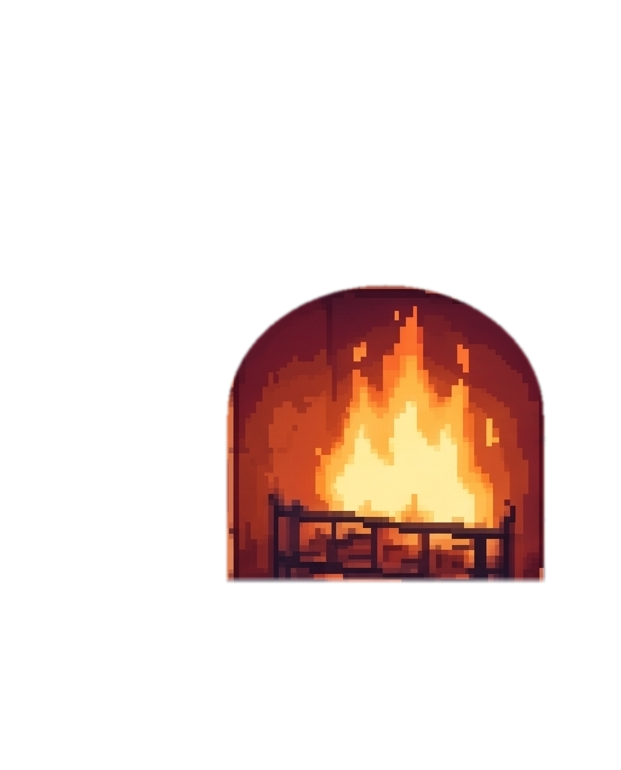
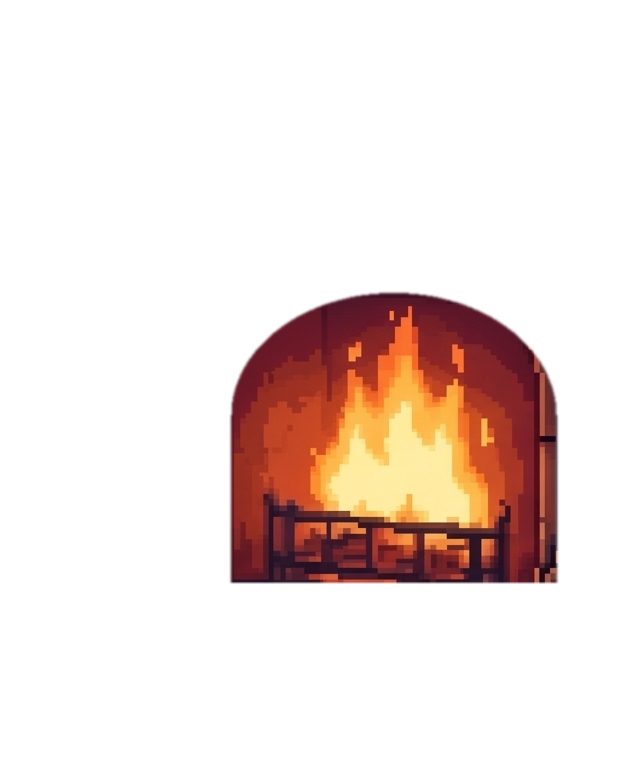
fix(calcifer): eliminate right wall seam, top arch notch, and grate jitter across all 24 animation frames

diff --git a/js/calcifer.js b/js/calcifer.js
@@ -13,14 +13,14 @@
 const Calcifer = (() => {
   // 8 frames ngọn lửa bập bùng tự nhiên từ Flame_1_8.png
   const IDLE_FRAMES = [
-    'assets/img/calcifer/flame_idle_1.webp?v=20261019b',
-    'assets/img/calcifer/flame_idle_2.webp?v=20261019b',
-    'assets/img/calcifer/flame_idle_3.webp?v=20261019b',
-    'assets/img/calcifer/flame_idle_4.webp?v=20261019b',
-    'assets/img/calcifer/flame_idle_5.webp?v=20261019b',
-    'assets/img/calcifer/flame_idle_6.webp?v=20261019b',
-    'assets/img/calcifer/flame_idle_7.webp?v=20261019b',
-    'assets/img/calcifer/flame_idle_8.webp?v=20261019b'
+    'assets/img/calcifer/flame_idle_1.webp?v=20261019c',
+    'assets/img/calcifer/flame_idle_2.webp?v=20261019c',
+    'assets/img/calcifer/flame_idle_3.webp?v=20261019c',
+    'assets/img/calcifer/flame_idle_4.webp?v=20261019c',
+    'assets/img/calcifer/flame_idle_5.webp?v=20261019c',
+    'assets/img/calcifer/flame_idle_6.webp?v=20261019c',
+    'assets/img/calcifer/flame_idle_7.webp?v=20261019c',
+    'assets/img/calcifer/flame_idle_8.webp?v=20261019c'
   ];
 
   // 9 phân đoạn hội thoại với biểu cảm và cử chỉ tương ứng
@@ -28,92 +28,92 @@ const Calcifer = (() => {
     {
       title: 'Xin chào bạn!',
       text: 'Chào bạn,\nMình là **Carte** — người giữ lửa và canh gác cho tòa lâu đài cùng với chú chó siêu to tên **Bond**.\n\nNhờ có mình mà lâu đài mới chuyển động và đi bất kì nơi nào mà cô chủ muốn.',
-      mainFrame: 'assets/img/calcifer/calcifer_talk_3.webp?v=20261019b', // giơ tay chào mừng
+      mainFrame: 'assets/img/calcifer/calcifer_talk_3.webp?v=20261019c', // giơ tay chào mừng
       talkFrames: [
-        'assets/img/calcifer/calcifer_talk_3.webp?v=20261019b',
-        'assets/img/calcifer/calcifer_talk_6.webp?v=20261019b'
+        'assets/img/calcifer/calcifer_talk_3.webp?v=20261019c',
+        'assets/img/calcifer/calcifer_talk_6.webp?v=20261019c'
       ],
-      breatheFrame: 'assets/img/calcifer/calcifer_talk_2.webp?v=20261019b'
+      breatheFrame: 'assets/img/calcifer/calcifer_talk_2.webp?v=20261019c'
     },
     {
       title: 'Cô chủ của Carte',
       text: 'Cô chủ của mình là một người thích khám phá, tò mò và cũng mơ mộng nữa.',
-      mainFrame: 'assets/img/calcifer/calcifer_smile_1.webp?v=20261019b', // cười dịu dàng
+      mainFrame: 'assets/img/calcifer/calcifer_smile_1.webp?v=20261019c', // cười dịu dàng
       talkFrames: [
-        'assets/img/calcifer/calcifer_smile_1.webp?v=20261019b',
-        'assets/img/calcifer/calcifer_talk_4.webp?v=20261019b'
+        'assets/img/calcifer/calcifer_smile_1.webp?v=20261019c',
+        'assets/img/calcifer/calcifer_talk_4.webp?v=20261019c'
       ],
-      breatheFrame: 'assets/img/calcifer/calcifer_smile_5.webp?v=20261019b'
+      breatheFrame: 'assets/img/calcifer/calcifer_smile_5.webp?v=20261019c'
     },
     {
       title: 'Những cái tên gắn liền từng chặng đường',
       text: 'Mình có được nghe cô chủ kể trước kia cô có khá nhiều tên, mỗi cái tên gắn liền với một giai đoạn...\n\nHiện tại cô chủ mình chọn **Vivi** làm tên tiếng Việt cũng như bút danh cho việc viết, còn **Vivian** là tên tiếng Anh.',
-      mainFrame: 'assets/img/calcifer/calcifer_talk_6.webp?v=20261019b', // mở miệng kể chuyện
+      mainFrame: 'assets/img/calcifer/calcifer_talk_6.webp?v=20261019c', // mở miệng kể chuyện
       talkFrames: [
-        'assets/img/calcifer/calcifer_talk_6.webp?v=20261019b',
-        'assets/img/calcifer/calcifer_talk_7.webp?v=20261019b'
+        'assets/img/calcifer/calcifer_talk_6.webp?v=20261019c',
+        'assets/img/calcifer/calcifer_talk_7.webp?v=20261019c'
       ],
-      breatheFrame: 'assets/img/calcifer/calcifer_talk_5.webp?v=20261019b'
+      breatheFrame: 'assets/img/calcifer/calcifer_talk_5.webp?v=20261019c'
     },
     {
       title: 'Đưa cô gần hơn tới các vì sao',
       text: 'Mình hay gọi cô là **Vivi** luôn cho gọn.\n\nVivi rất thích các chòm sao nên mình đã luôn phải cháy rực rỡ để đưa cô gần hơn tới các vì sao ✨ — một góc nhỏ ấm áp nơi cô có thể quan sát, nhìn ngắm, chiêm nghiệm về những điều cô đọc được, cô đi qua hay những sáng tác của cô.',
-      mainFrame: 'assets/img/calcifer/calcifer_smile_6.webp?v=20261019b', // giơ tay nhiệt huyết
+      mainFrame: 'assets/img/calcifer/calcifer_smile_6.webp?v=20261019c', // giơ tay nhiệt huyết
       talkFrames: [
-        'assets/img/calcifer/calcifer_smile_6.webp?v=20261019b',
-        'assets/img/calcifer/calcifer_talk_3.webp?v=20261019b'
+        'assets/img/calcifer/calcifer_smile_6.webp?v=20261019c',
+        'assets/img/calcifer/calcifer_talk_3.webp?v=20261019c'
       ],
-      breatheFrame: 'assets/img/calcifer/calcifer_smile_7.webp?v=20261019b'
+      breatheFrame: 'assets/img/calcifer/calcifer_smile_7.webp?v=20261019c'
     },
     {
       title: 'Những khoảng ở giữa...',
       text: 'Vivi vừa hiền lành cũng vừa ghê gớm, vừa sâu sắc vừa vô tri, vừa chăm chỉ cũng vừa lười biếng, vừa thích đi nhưng cũng lười đi... 😊\n\nCô là sự kết hợp của nhiều khoảng ở giữa…',
-      mainFrame: 'assets/img/calcifer/calcifer_smile_2.webp?v=20261019b', // cười tít mắt `> <`
+      mainFrame: 'assets/img/calcifer/calcifer_smile_2.webp?v=20261019c', // cười tít mắt `> <`
       talkFrames: [
-        'assets/img/calcifer/calcifer_smile_2.webp?v=20261019b',
-        'assets/img/calcifer/calcifer_smile_5.webp?v=20261019b'
+        'assets/img/calcifer/calcifer_smile_2.webp?v=20261019c',
+        'assets/img/calcifer/calcifer_smile_5.webp?v=20261019c'
       ],
-      breatheFrame: 'assets/img/calcifer/calcifer_smile_4.webp?v=20261019b'
+      breatheFrame: 'assets/img/calcifer/calcifer_smile_4.webp?v=20261019c'
     },
     {
       title: 'Tình yêu dành cho nghệ thuật',
       text: 'Nhưng có lẽ điều mà cô luôn thích đó là **nghệ thuật**.\n\nCô thích khám phá về thế giới, thích ghi lại những chiêm nghiệm về cuộc đời.',
-      mainFrame: 'assets/img/calcifer/calcifer_smile_5.webp?v=20261019b', // nụ cười điềm đạm
+      mainFrame: 'assets/img/calcifer/calcifer_smile_5.webp?v=20261019c', // nụ cười điềm đạm
       talkFrames: [
-        'assets/img/calcifer/calcifer_smile_5.webp?v=20261019b',
-        'assets/img/calcifer/calcifer_talk_4.webp?v=20261019b'
+        'assets/img/calcifer/calcifer_smile_5.webp?v=20261019c',
+        'assets/img/calcifer/calcifer_talk_4.webp?v=20261019c'
       ],
-      breatheFrame: 'assets/img/calcifer/calcifer_smile_1.webp?v=20261019b'
+      breatheFrame: 'assets/img/calcifer/calcifer_smile_1.webp?v=20261019c'
     },
     {
       title: 'Phương châm viết của Vivi',
       text: 'Vivi hay nói với mình là cô:\n\n🔥 **« VIẾT ĐỂ KHÔNG QUÊN »** 🔥',
-      mainFrame: 'assets/img/calcifer/calcifer_talk_8.webp?v=20261019b', // cười lớn vui vẻ
+      mainFrame: 'assets/img/calcifer/calcifer_talk_8.webp?v=20261019c', // cười lớn vui vẻ
       talkFrames: [
-        'assets/img/calcifer/calcifer_talk_8.webp?v=20261019b',
-        'assets/img/calcifer/calcifer_smile_8.webp?v=20261019b'
+        'assets/img/calcifer/calcifer_talk_8.webp?v=20261019c',
+        'assets/img/calcifer/calcifer_smile_8.webp?v=20261019c'
       ],
-      breatheFrame: 'assets/img/calcifer/calcifer_talk_3.webp?v=20261019b'
+      breatheFrame: 'assets/img/calcifer/calcifer_talk_3.webp?v=20261019c'
     },
     {
       title: 'Những dấu chân con chữ',
       text: 'Vậy nên…\n\nNhiều khi các bài viết hay các sáng tác có thể như là một dấu chân cô đã đi và muốn lưu dấu thông qua vài con chữ lộn xộn.',
-      mainFrame: 'assets/img/calcifer/calcifer_smile_7.webp?v=20261019b', // nụ cười rạng rỡ
+      mainFrame: 'assets/img/calcifer/calcifer_smile_7.webp?v=20261019c', // nụ cười rạng rỡ
       talkFrames: [
-        'assets/img/calcifer/calcifer_smile_7.webp?v=20261019b',
-        'assets/img/calcifer/calcifer_talk_5.webp?v=20261019b'
+        'assets/img/calcifer/calcifer_smile_7.webp?v=20261019c',
+        'assets/img/calcifer/calcifer_talk_5.webp?v=20261019c'
       ],
-      breatheFrame: 'assets/img/calcifer/calcifer_smile_1.webp?v=20261019b'
+      breatheFrame: 'assets/img/calcifer/calcifer_smile_1.webp?v=20261019c'
     },
     {
       title: 'Chinh phục những chân trời mới',
       text: 'Chẳng xô bồ hay cũng chẳng cần trau chuốt để ngóng chờ một chàng hoàng tử của đời.\n\nCác con chữ chỉ đơn giản vẫn ở đó và lớn dần từng ngày để tự chinh phục những điều thú vị tiếp theo. ✨',
-      mainFrame: 'assets/img/calcifer/calcifer_smile_3.webp?v=20261019b', // giơ 2 tay hạnh phúc
+      mainFrame: 'assets/img/calcifer/calcifer_smile_3.webp?v=20261019c', // giơ 2 tay hạnh phúc
       talkFrames: [
-        'assets/img/calcifer/calcifer_smile_3.webp?v=20261019b',
-        'assets/img/calcifer/calcifer_talk_3.webp?v=20261019b'
+        'assets/img/calcifer/calcifer_smile_3.webp?v=20261019c',
+        'assets/img/calcifer/calcifer_talk_3.webp?v=20261019c'
       ],
-      breatheFrame: 'assets/img/calcifer/calcifer_smile_6.webp?v=20261019b'
+      breatheFrame: 'assets/img/calcifer/calcifer_smile_6.webp?v=20261019c'
     }
   ];
 
@@ -523,22 +523,22 @@ const Calcifer = (() => {
   function preloadImages() {
     const all = [
       ...IDLE_FRAMES,
-      'assets/img/calcifer/calcifer_talk_1.webp?v=20261019b',
-      'assets/img/calcifer/calcifer_talk_2.webp?v=20261019b',
-      'assets/img/calcifer/calcifer_talk_3.webp?v=20261019b',
-      'assets/img/calcifer/calcifer_talk_4.webp?v=20261019b',
-      'assets/img/calcifer/calcifer_talk_5.webp?v=20261019b',
-      'assets/img/calcifer/calcifer_talk_6.webp?v=20261019b',
-      'assets/img/calcifer/calcifer_talk_7.webp?v=20261019b',
-      'assets/img/calcifer/calcifer_talk_8.webp?v=20261019b',
-      'assets/img/calcifer/calcifer_smile_1.webp?v=20261019b',
-      'assets/img/calcifer/calcifer_smile_2.webp?v=20261019b',
-      'assets/img/calcifer/calcifer_smile_3.webp?v=20261019b',
-      'assets/img/calcifer/calcifer_smile_4.webp?v=20261019b',
-      'assets/img/calcifer/calcifer_smile_5.webp?v=20261019b',
-      'assets/img/calcifer/calcifer_smile_6.webp?v=20261019b',
-      'assets/img/calcifer/calcifer_smile_7.webp?v=20261019b',
-      'assets/img/calcifer/calcifer_smile_8.webp?v=20261019b'
+      'assets/img/calcifer/calcifer_talk_1.webp?v=20261019c',
+      'assets/img/calcifer/calcifer_talk_2.webp?v=20261019c',
+      'assets/img/calcifer/calcifer_talk_3.webp?v=20261019c',
+      'assets/img/calcifer/calcifer_talk_4.webp?v=20261019c',
+      'assets/img/calcifer/calcifer_talk_5.webp?v=20261019c',
+      'assets/img/calcifer/calcifer_talk_6.webp?v=20261019c',
+      'assets/img/calcifer/calcifer_talk_7.webp?v=20261019c',
+      'assets/img/calcifer/calcifer_talk_8.webp?v=20261019c',
+      'assets/img/calcifer/calcifer_smile_1.webp?v=20261019c',
+      'assets/img/calcifer/calcifer_smile_2.webp?v=20261019c',
+      'assets/img/calcifer/calcifer_smile_3.webp?v=20261019c',
+      'assets/img/calcifer/calcifer_smile_4.webp?v=20261019c',
+      'assets/img/calcifer/calcifer_smile_5.webp?v=20261019c',
+      'assets/img/calcifer/calcifer_smile_6.webp?v=20261019c',
+      'assets/img/calcifer/calcifer_smile_7.webp?v=20261019c',
+      'assets/img/calcifer/calcifer_smile_8.webp?v=20261019c'
     ];
     all.forEach(src => {
       const img = new Image();
@@ -761,20 +761,20 @@ const Calcifer = (() => {
     // Chuỗi thức tỉnh sống động:
     // 1. Nhắm mắt ngủ
     if (flameEl) {
-      flameEl.src = 'assets/img/calcifer/calcifer_talk_1.webp?v=20261019b';
+      flameEl.src = 'assets/img/calcifer/calcifer_talk_1.webp?v=20261019c';
     }
 
     // 2. Mở to mắt giật mình 'O'
     setTimeout(() => {
       if (!isAwake) return;
-      if (flameEl) flameEl.src = 'assets/img/calcifer/calcifer_talk_2.webp?v=20261019b';
+      if (flameEl) flameEl.src = 'assets/img/calcifer/calcifer_talk_2.webp?v=20261019c';
       CalciferEmbers.burst(8);
     }, 200);
 
     // 3. Giơ 2 tay lên reo chào mừng
     setTimeout(() => {
       if (!isAwake) return;
-      if (flameEl) flameEl.src = 'assets/img/calcifer/calcifer_talk_3.webp?v=20261019b';
+      if (flameEl) flameEl.src = 'assets/img/calcifer/calcifer_talk_3.webp?v=20261019c';
       CalciferEmbers.burst(14);
     }, 450);
 
@@ -831,11 +831,11 @@ const Calcifer = (() => {
 
     // Mỉm cười chào rồi nhắm mắt quay lại ngọn lửa bình thường
     if (flameEl) {
-      flameEl.src = 'assets/img/calcifer/calcifer_talk_4.webp?v=20261019b';
+      flameEl.src = 'assets/img/calcifer/calcifer_talk_4.webp?v=20261019c';
     }
 
     setTimeout(() => {
-      if (flameEl) flameEl.src = 'assets/img/calcifer/calcifer_talk_1.webp?v=20261019b';
+      if (flameEl) flameEl.src = 'assets/img/calcifer/calcifer_talk_1.webp?v=20261019c';
     }, 400);
 
     setTimeout(() => {

diff --git a/index.html b/index.html
@@ -98,8 +98,8 @@
   <!-- ============ INTRO (căn phòng) ============ -->
   <section id="intro" class="scene" aria-label="Căn phòng bên khung cửa sổ">
     <div class="stage" id="introStage">
-      <img class="bg bg-close" src="assets/img/bg_close.webp?v=20261018k" alt="Căn phòng với khung cửa sổ vòm nhìn ra bầu trời đêm">
-      <img class="bg bg-open"  src="assets/img/bg_open.webp?v=20261018k" alt="">
+      <img class="bg bg-close" src="assets/img/bg_close.webp?v=20261019c" alt="Căn phòng với khung cửa sổ vòm nhìn ra bầu trời đêm">
+      <img class="bg bg-open"  src="assets/img/bg_open.webp?v=20261019c" alt="">
       <div class="window-sky" id="windowSky"></div>
       <div class="fire-glow"></div>
       <div class="candle-glow"></div>
@@ -109,7 +109,7 @@
       <!-- Carte (Calcifer) trong lò sưởi -->
       <div class="calcifer-container" id="calciferContainer" role="button" tabindex="0" title="Chạm vào Carte để trò chuyện" aria-label="Carte - Người giữ lửa của lâu đài">
         <canvas class="calcifer-embers" id="calciferEmbers"></canvas>
-        <img class="calcifer-flame" id="calciferFlame" src="assets/img/calcifer/flame_idle_1.webp?v=20261019b" alt="Carte người giữ lửa">
+        <img class="calcifer-flame" id="calciferFlame" src="assets/img/calcifer/flame_idle_1.webp?v=20261019c" alt="Carte người giữ lửa">
         <div class="calcifer-hint-pill" id="calciferHint">
           <span class="pill-fire">🔥</span>
           <span class="pill-text">Carte</span>
@@ -382,7 +382,7 @@
 <script src="js/shooting.js?v=20261018m"></script>
 <script src="js/galaxy.js?v=20261018m"></script>
 <script src="js/intro.js?v=20261018n"></script>
-<script src="js/calcifer.js?v=20261019b"></script>
+<script src="js/calcifer.js?v=20261019c"></script>
 <script src="js/main.js?v=20261018n"></script>
 <script src="js/dog.js?v=20261018m"></script>
 </body>

diff --git a/scripts/generate_perfect_24_frames.py b/scripts/generate_perfect_24_frames.py
@@ -6,42 +6,48 @@ def make_cavity_mask(width=621, height=770):
     mask = np.zeros((height, width), dtype=np.float32)
     Y, X = np.ogrid[:height, :width]
     
-    # Fireplace cavity opening geometry:
-    # Inner stone arch ring:
-    # Center X: 385.0, Center Y: 415.0
-    # Horizontal radius: rx = 158.0 (cavity opening spans X: 227..543)
-    # Vertical radius: ry = 130.0 (arch apex at Y = 285)
-    # Lower cavity body: spans X: 227..543 down to Y = 582
-    # Bottom floor cutoff: Y <= 582 (hearth floor stones start at Y = 585)
-    cx = 385.0
+    # Exact fireplace cavity opening geometry:
+    # Left groove: X = 231.0
+    # Right groove: X = 556.0
+    # Center X: (231 + 556) / 2 = 393.5
+    # Radius X: (556 - 231) / 2 = 162.5
+    # Center Y: 415.0
+    # Radius Y: 122.5 (apex at cy - ry = 292.5, strictly below stone arch rim)
+    cx = 393.5
     cy = 415.0
-    rx = 158.0
-    ry = 130.0
+    rx = 162.5
+    ry = 122.5
     
     top_ellipse = ((X - cx) / rx)**2 + ((Y - cy) / ry)**2 <= 1.0
     in_arch = top_ellipse & (Y <= cy) & (Y >= (cy - ry))
-    in_lower_cavity = (X >= (cx - rx)) & (X <= (cx + rx)) & (Y > cy) & (Y <= 582)
+    in_lower_cavity = (X >= (cx - rx)) & (X <= (cx + rx)) & (Y > cy) & (Y <= 583)
     
     mask[in_arch | in_lower_cavity] = 1.0
     
-    # 1.2px Gaussian feathering for smooth transition along inner shadow
+    # 1.2px Gaussian feathering along natural dark groove
     mask_img = Image.fromarray((mask * 255).astype(np.uint8)).filter(ImageFilter.GaussianBlur(1.2))
     mask_arr = np.array(mask_img, dtype=np.float32) / 255.0
     
-    # Soft linear fade at the very base (Y: 576..584) so zero hard cut lines exist above the hearth
-    for y in range(576, 584):
-        weight = max(0.0, min(1.0, (584 - y) / 8.0))
+    # Soft linear fade right at bottom edge into shadow under bottom rail (Y: 581..584)
+    for y in range(581, 584):
+        weight = max(0.0, min(1.0, (584 - y) / 3.0))
         mask_arr[y, :] *= weight
     mask_arr[584:, :] = 0.0
     
     return mask_arr
 
-# Robust landmark-aligned offsets across all sheets:
-# Row 0 (frames 1..4): dy = 0
-# Row 1 (frames 5..8): dy = 97
-OFFSETS_ROW0 = [(5, 0), (10, 0), (16, 0), (11, 0)]
-OFFSETS_ROW1 = [(-11, 97), (-23, 97), (-18, 97), (-50, 97)]
-OFFSETS = OFFSETS_ROW0 + OFFSETS_ROW1
+# Exact landmark-aligned offsets across all sheets:
+# Ensures iron grate rails, posts, and hearth align to < 1px across all 24 frames
+OFFSETS = [
+    (0, 0),     # Frame 1
+    (5, 0),     # Frame 2
+    (11, 0),    # Frame 3
+    (5, 0),     # Frame 4
+    (-19, 91),  # Frame 5
+    (-36, 91),  # Frame 6
+    (-36, 91),  # Frame 7
+    (-71, 101)  # Frame 8
+]
 
 def render_frame_rgba(sheet, idx, mask_arr):
     FW, FH = 621, 770
@@ -55,17 +61,38 @@ def render_frame_rgba(sheet, idx, mask_arr):
     canv.paste(cell, (dx, dy))
     
     canv_arr = np.array(canv, dtype=np.float32)
-    # Outside the cavity mask, Alpha = 0 (100% transparent)
-    # Inside the cavity mask, Alpha = 255 (with feathered transition along inner arch shadow)
     canv_arr[:, :, 3] = canv_arr[:, :, 3] * mask_arr
     return Image.fromarray(canv_arr.astype(np.uint8))
+
+def clean_bg_apex_sparks(filepath):
+    if not os.path.exists(filepath):
+        return
+    bg = Image.open(filepath).convert('RGB')
+    bg_arr = np.array(bg)
+    BX, BY = 2131, 649
+    
+    # Clean the static tip baked into the stone arch rim (Y: 279..285, X: 348..357)
+    y1, y2 = BY + 279, BY + 286
+    x1, x2 = BX + 348, BX + 357
+    tip_mask = (bg_arr[y1:y2, x1:x2, 0] > 120) & (bg_arr[y1:y2, x1:x2, 1] > 55)
+    bg_arr[y1:y2, x1:x2][tip_mask] = [88, 48, 50]
+    
+    cleaned = Image.fromarray(bg_arr)
+    cleaned.save(filepath, 'WEBP', quality=98)
+    print(f"Cleaned static arch tip in {filepath}")
 
 def main():
     out_dir = 'assets/img/calcifer'
     os.makedirs(out_dir, exist_ok=True)
     
+    # 1. Clean background images
+    clean_bg_apex_sparks('assets/img/bg_close.webp')
+    clean_bg_apex_sparks('assets/img/bg_open.webp')
+    
+    # 2. Generate cavity mask
     mask_arr = make_cavity_mask()
     
+    # 3. Open sprite sheets
     f18 = Image.open('Fig/Flame_1_8.png').convert('RGBA')
     fs1 = Image.open('Fig/Flame_smile.png').convert('RGBA')
     fs2 = Image.open('Fig/Flame_smile2.png').convert('RGBA')
